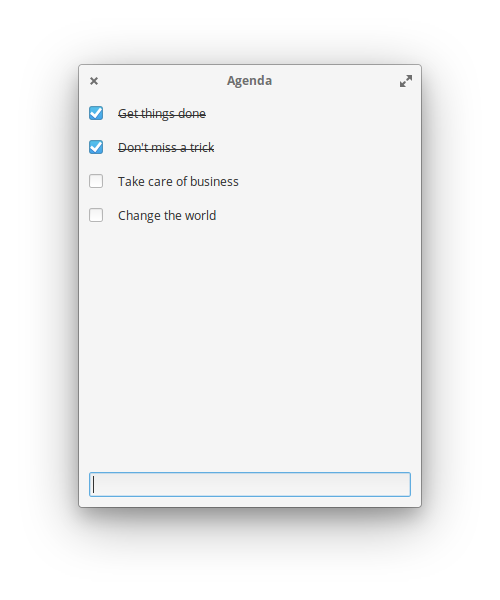
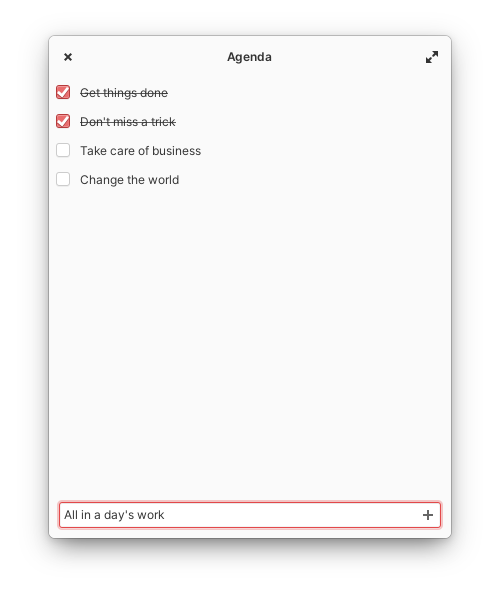
Update the screenshots

Changed region(s): [[0.06, 0.06, 0.93, 0.93], [0.24, 0.09, 0.75, 0.15]]

diff --git a/README.md b/README.md
@@ -8,9 +8,8 @@
   <a href="https://appcenter.elementary.io/com.github.dahenson.agenda"><img src="https://appcenter.elementary.io/badge.svg" alt="Get it on AppCenter" /></a>
 </p>
 
-| ![Screenshot](data/screenshot.png)                | ![Screenshot](data/screenshot_welcome.png)        |
-|---------------------------------------------------|---------------------------------------------------|
-| ![Screenshot](data/screenshot_whole_screen_1.png) | ![Screenshot](data/screenshot_whole_screen_2.png) |
+![Screenshot](data/screenshot.png)
+![Screenshot](data/screenshot_welcome.png)
 
 ## A simple, fast, no-nonsense to-do (task) list for elementary OS.
 
